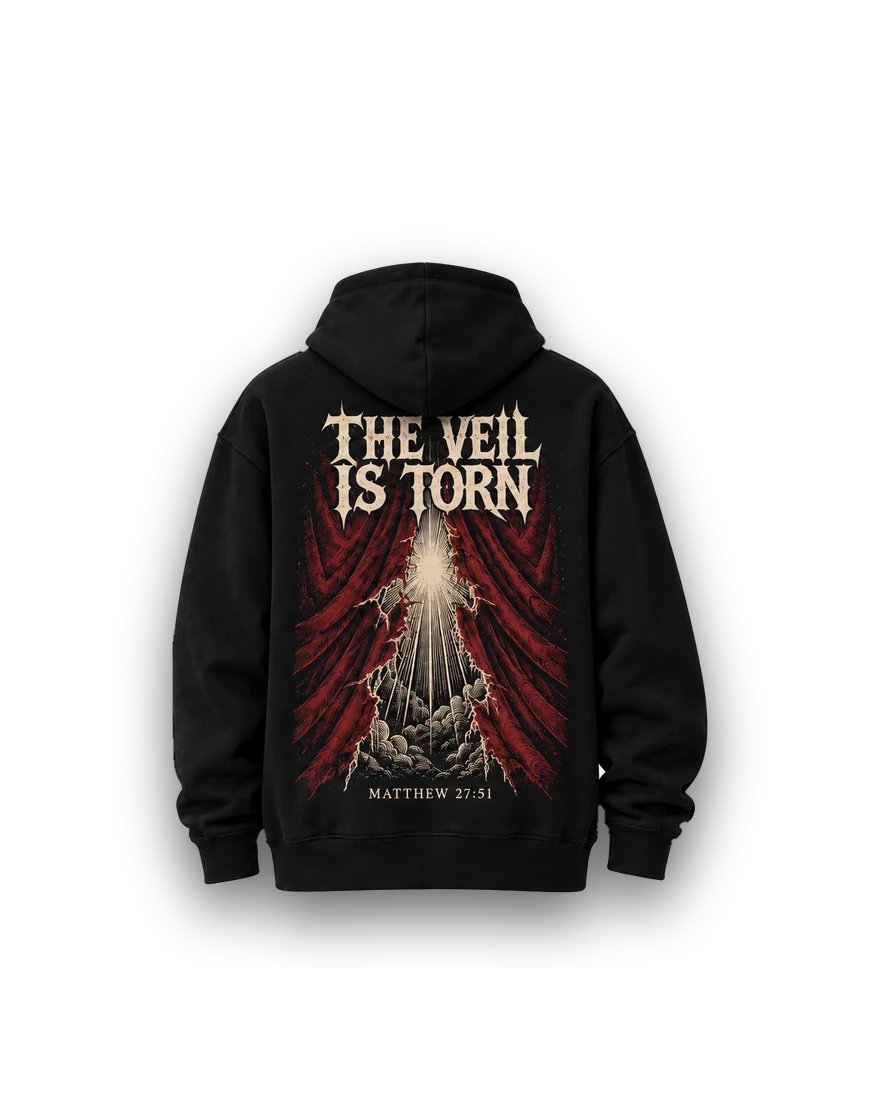
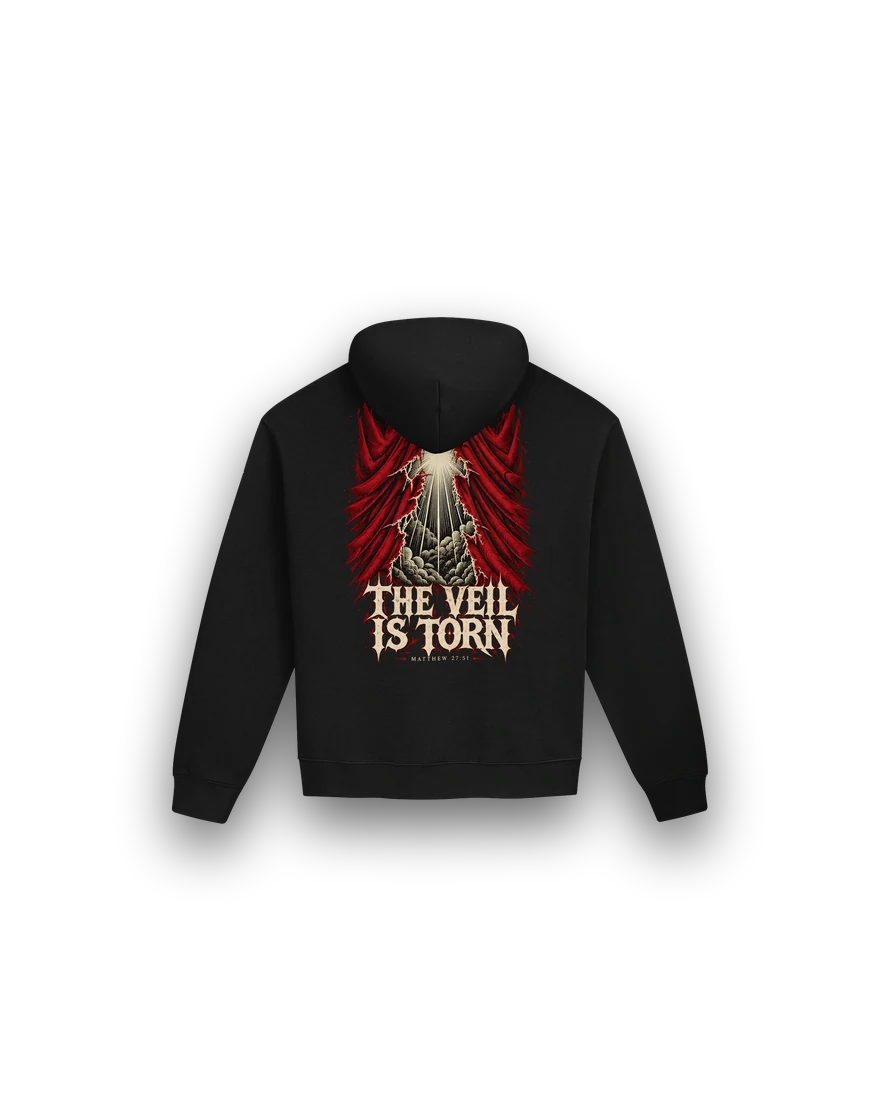
Update Torn Veil and The Passage to their new back prints
Both hoodies now carry their lettering on the lower half of the back, clear
of the hood. The site shows Fourthwall's new renders, and each close-up is
the new print file laid on the hoodie's own fabric (the mockups no longer
match the layout). Copy and alt text follow the new layout.

Claude-Session: https://claude.ai/code/session_01VmqVMxiDGTr2J5oF5LgYP4

Changed region(s): [[0.1534, 0.2164, 0.8284, 0.8655], [0.2761, 0.5564, 0.3068, 0.5873]]

diff --git a/assets/mockups/compose.py b/assets/mockups/compose.py
@@ -62,15 +62,15 @@ CAPS = ("lambs-mark", "signature-cap")
 # of the cutout. On the hoodie renders the hood hangs over the top of the back print, so hoodie
 # close-ups show the whole design another way: `detail_source: "mockup"` crops the approved mockup
 # (also used for the home story scene), and `"print"` lays the back print file itself on the
-# hoodie's fabric (for a design that changed after its mockup was made).
+# hoodie's fabric (used once a design has changed since its mockup was made).
 VIEWS = {
     "still-the-storm": {"views": ["front", "back"], "detail": ("front", 0.5, 0.5, 0.72)},
     "by-his-hem": {"views": ["back", "front"], "detail": ("back", 0.47, 0.42, 0.74)},
     "thorns-to-lilies": {"views": ["back", "front"], "detail": ("back", 0.5, 0.46, 0.68)},
-    "torn-veil": {"views": ["back", "front"], "detail": ("back", 0.5, 0.46, 0.64), "detail_source": "mockup"},
+    "torn-veil": {"views": ["back", "front"], "detail": ("back", 0.5, 0.46, 0.64), "detail_source": "print"},
     "stone-in-motion": {"views": ["back", "front"], "detail": ("back", 0.52, 0.45, 0.74)},
     "to-live-is-christ": {"views": ["front", "back"], "detail": ("front", 0.5, 0.48, 0.66)},
-    "the-passage": {"views": ["back", "front"], "detail": ("back", 0.5, 0.45, 0.62), "detail_source": "mockup"},
+    "the-passage": {"views": ["back", "front"], "detail": ("back", 0.5, 0.45, 0.62), "detail_source": "print"},
     "wonderfully-made": {"views": ["back", "front"], "detail": ("back", 0.5, 0.45, 0.62), "detail_source": "print"},
     "lambs-mark": {"views": ["front", "side", "back"], "detail": ("front", 0.5, 0.4, 0.56)},
     "signature-cap": {"views": ["front", "side", "back"], "detail": ("front", 0.5, 0.42, 0.52)},

diff --git a/apps/web/AGENTS.md b/apps/web/AGENTS.md
@@ -54,7 +54,7 @@ src/
 - **Styling**: brand classes (`.aw-*`) for type and components, Tailwind utilities for layout, tokens for every color. No raw hex. Garment swatches go through `colorCss(color)` from `@/shared`: the brand token when the color is known, otherwise Fourthwall's swatch hex (product data, not styling). Fonts are self-hosted from `@fontsource-variable/*` via `next/font/local` (no Google Fonts requests).
 - **Motion**: never hide words. `<Reveal>` is CSS only: a short scroll-linked rise that starts at 40% opacity, so text is readable without JavaScript, in browsers without scroll-driven animation and with reduced motion. The hero rises in 420ms; the Behold name opens from the center as it scrolls in; in design stories the garment drifts a few percent against its niche (`motion/react`, still under reduced motion) while the words stay put. Anchors land below the header (`scroll-margin-top` on every `[id]`). Glows use `.soft-glow` (site.css): an ellipse that fades out inside a box larger than the block it lights, so no edge shows as a line.
 - **React 19 lint rules**: don't call setState synchronously in effects. Adjust state during render when a prop changes (see `product-grid.tsx`, `site-header.tsx`).
-- **Images**: product images are plain `<img>`. `public/products/<slug>/` holds the site's styled product images: Fourthwall's render of the product (or the approved mockup until a render is ready) on each piece's own surface, made by `assets/mockups/fourthwall.py` and `compose.py`. The listing view shows the whole garment, `detail` is the artwork close-up (for hoodies, whose renders hide the top of the back print under the hood, a mockup crop or the print file on the hoodie's fabric), and `story-niche.webp` + `story-piece.webp` are the two layers of the home design-story scene (the page builds their URLs from the slug, so every piece needs them). These images are used for previews and live products alike; Fourthwall's own photos are only a fallback (`catalog-merge.ts`). The founder portrait is `public/about/richard-{480,960}.webp`.
+- **Images**: product images are plain `<img>`. `public/products/<slug>/` holds the site's styled product images: Fourthwall's render of the product (or the approved mockup until a render is ready) on each piece's own surface, made by `assets/mockups/fourthwall.py` and `compose.py`. The listing view shows the whole garment, `detail` is the artwork close-up (for hoodies, whose renders hide the top of the back print under the hood, the print file on the hoodie's fabric, or a mockup crop), and `story-niche.webp` + `story-piece.webp` are the two layers of the home design-story scene (the page builds their URLs from the slug, so every piece needs them). These images are used for previews and live products alike; Fourthwall's own photos are only a fallback (`catalog-merge.ts`). The founder portrait is `public/about/richard-{480,960}.webp`.
 - **A new release**: add a collection (slug, name, number, tagline, story, scriptureRef) and its products to `catalog.json`, each with a Scripture record (exact NIV and KJV text) and a design story (theme, call, art, meaning), and run `assets/mockups/compose.py` for its images and story scene. Latest Drop, the home page, Collections and the shop selector pick it up. `featured: true` picks the two home design stories and the hero pieces (the first featured piece in release order is shown largest; the piece carrying the release verse fills the third spot).
 - **Previews**: a content entry with no Fourthwall product is listed with `preview: true` (content price, sizes and mockups; SKUs like `A3-B01-FADED-BLACK-M`). The product page says ordering isn't open and offers "Save to bag"; the bag explains it only saves selections and shows a notify form instead of checkout; `startCheckout` refuses preview lines.
 

diff --git a/docs/BRAND.md b/docs/BRAND.md
@@ -80,7 +80,7 @@ Motion is short and never hides words: decoration may draw or move, but artwork,
 - Behold surfaces: Still the Storm, deep storm slate with cloud-soft texture lit from above; By His Hem, muted sage plaster (the rust print's complement); Thorns to Lilies, deep oxblood plaster under a spotlight; Torn Veil, warm parchment crossed by a shaft of light; Stone in Motion, dusty cornflower stone with a fine speckle; To Live Is Christ, warm ochre plaster lit from above; The Passage, burnt terracotta plaster under a spotlight; Wonderfully Made, dusty rose paper lit from above; Lamb's Mark, cool bone linen with a narrow oxblood band at the base; Signature Cap, warm concrete with a fine speckle lit from above.
 - Home design stories use a rendered scene per piece: the garment hanging in a pointed stone niche in its surface color (`story-niche.webp` and `story-piece.webp` beside each piece's images). No line art behind the pieces.
 - The product stays the focal point: preserve the artwork and garment colors exactly; the listing image always shows the whole garment; artwork crops are secondary images; no props or textures over the print; no fog, dramatic effects, glows or white outlines; clean garment edges. Changing the page color doesn't fix an embedded white background: cut the garment out and composite it.
-- Keep the source images intact. In the repo, `assets/mockups/fourthwall.json` lists each product's Fourthwall renders and `fourthwall.py` downloads them; `assets/mockups/source` holds the approved mockups and `cutout.py` cuts them out; `compose.py` builds the site images from the renders, falling back to the mockups. On the hoodies the hood hangs over the top of the back print in Fourthwall's render, so each hoodie's third image is a close-up of the whole back design: a crop of the mockup, or (for Wonderfully Made, whose design changed after its mockup) the print file laid on the hoodie's own fabric.
+- Keep the source images intact. In the repo, `assets/mockups/fourthwall.json` lists each product's Fourthwall renders and `fourthwall.py` downloads them; `assets/mockups/source` holds the approved mockups and `cutout.py` cuts them out; `compose.py` builds the site images from the renders, falling back to the mockups. On the hoodies the hood hangs over the top of the back print in Fourthwall's render, so each hoodie's third image is a close-up of the whole back design: the print file laid on the hoodie's own fabric (or a crop of the mockup, for a design that still matches its mockup).
 - New apparel art: symbols only (above), engraved line work, bone, black, deep red and the occasional single accent ink (Stone in Motion's cobalt).
 
 ## Voice

diff --git a/docs/TODOS.md b/docs/TODOS.md
@@ -57,7 +57,7 @@ Use a Fourthwall shop that belongs to Awebound (not another brand's shop).
 - [x] Storefront token created (Fourthwall admin → Settings → For developers) and set in `apps/web/.env.local`. Add it to Vercel too (step 1 above).
 - [ ] **Publish the products.** All ten Behold products are in the shop but hidden, so the Storefront API doesn't return them and the site lists them as previews. Publishing them (public access, available) turns on live prices, sizes and checkout.
 - [x] The ten Behold products exist in Fourthwall and each content entry carries its `fourthwallSlug` (e.g. `thorns-to-lillies-tee`). Colors use Fourthwall's names (`Ecru`, `French Navy`, `Black`, `Cypress`, `Carolina Blue`), mapped to brand swatch tokens. A new design needs an entry in the content file too (ID, collection, category, Scripture, copy); the server log lists mismatches.
-- [ ] **Hoodie back prints**: in Fourthwall's renders the hood covers the top of the back print ("The veil" on Torn Veil, "I will" on The Passage). Check the placement in the Fourthwall designer, or on a sample, before launch.
+- [x] **Hoodie back prints**: Torn Veil and The Passage now carry their lettering on the lower half of the back, clear of the hood. On Wonderfully Made the hood edge still touches the top of "Fearfully" in Fourthwall's render; worth a look on a sample.
 - [ ] **Lamb’s Mark side**: the Fourthwall design has no John 1:29 embroidery on the side (its description mentions it). Add it in the designer if it's meant to be there; the site's copy currently matches the design.
 - [ ] Name colors like the brand garments (`Washed coal`, `Faded black`, `Warm bone`, …) so the site shows the brand swatches. Other names fall back to Fourthwall's swatch color.
 - [ ] Shipping, taxes, order and shipping emails: configure in Fourthwall (it sends them).
